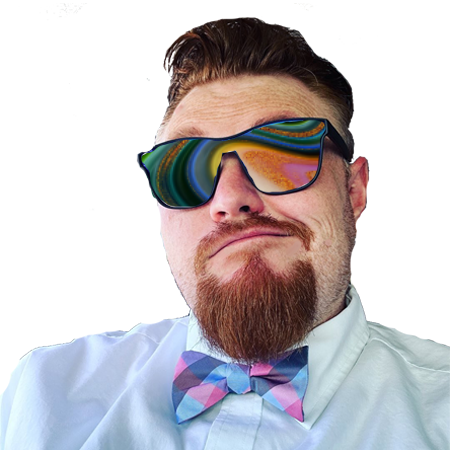
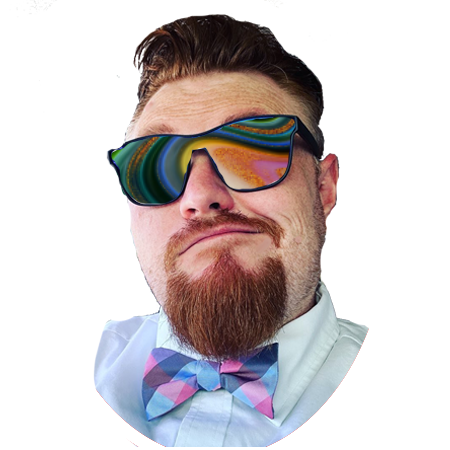
updated headshot

diff --git a/src/components/Skills.jsx b/src/components/Skills.jsx
@@ -27,7 +27,7 @@ const skills = [
   {
     name: 'MySQL and MongoDB',
     description:
-      'Databases are the backbone of any website. I have a strong understanding of both MySQL and MongoDB as well as some others and can create and manage databases for any website.',
+      'Databases are the backbone of any website. I have a strong understanding of both MySQL and MongoDB as well as some others and can create and manage databases for many websites.',
   },
 ];
 

diff --git a/src/index.css b/src/index.css
@@ -99,7 +99,6 @@
 .services {
   width: 350px;
   height: 350px;
-  display: none;
 }
 
 .active {
@@ -124,6 +123,10 @@
 
 .show {
   display: block;
+}
+
+.headshot {
+  display: none;
 }
 
 .avatar {
@@ -198,7 +201,8 @@
 }
 
 @media screen and (max-width: 476px) {
-  .services {
+  .headshot {
     display: block;
+    margin-top: -65px;
   }
 }

diff --git a/src/components/About.jsx b/src/components/About.jsx
@@ -50,7 +50,7 @@ const About = () => {
         className="m-5 flex justify-between items-center"
       >
         <img
-          className="services mix-blend-lighten"
+          className="headshot mix-blend-lighten"
           alt="headshot"
           src={aboutImg}
         ></img>
